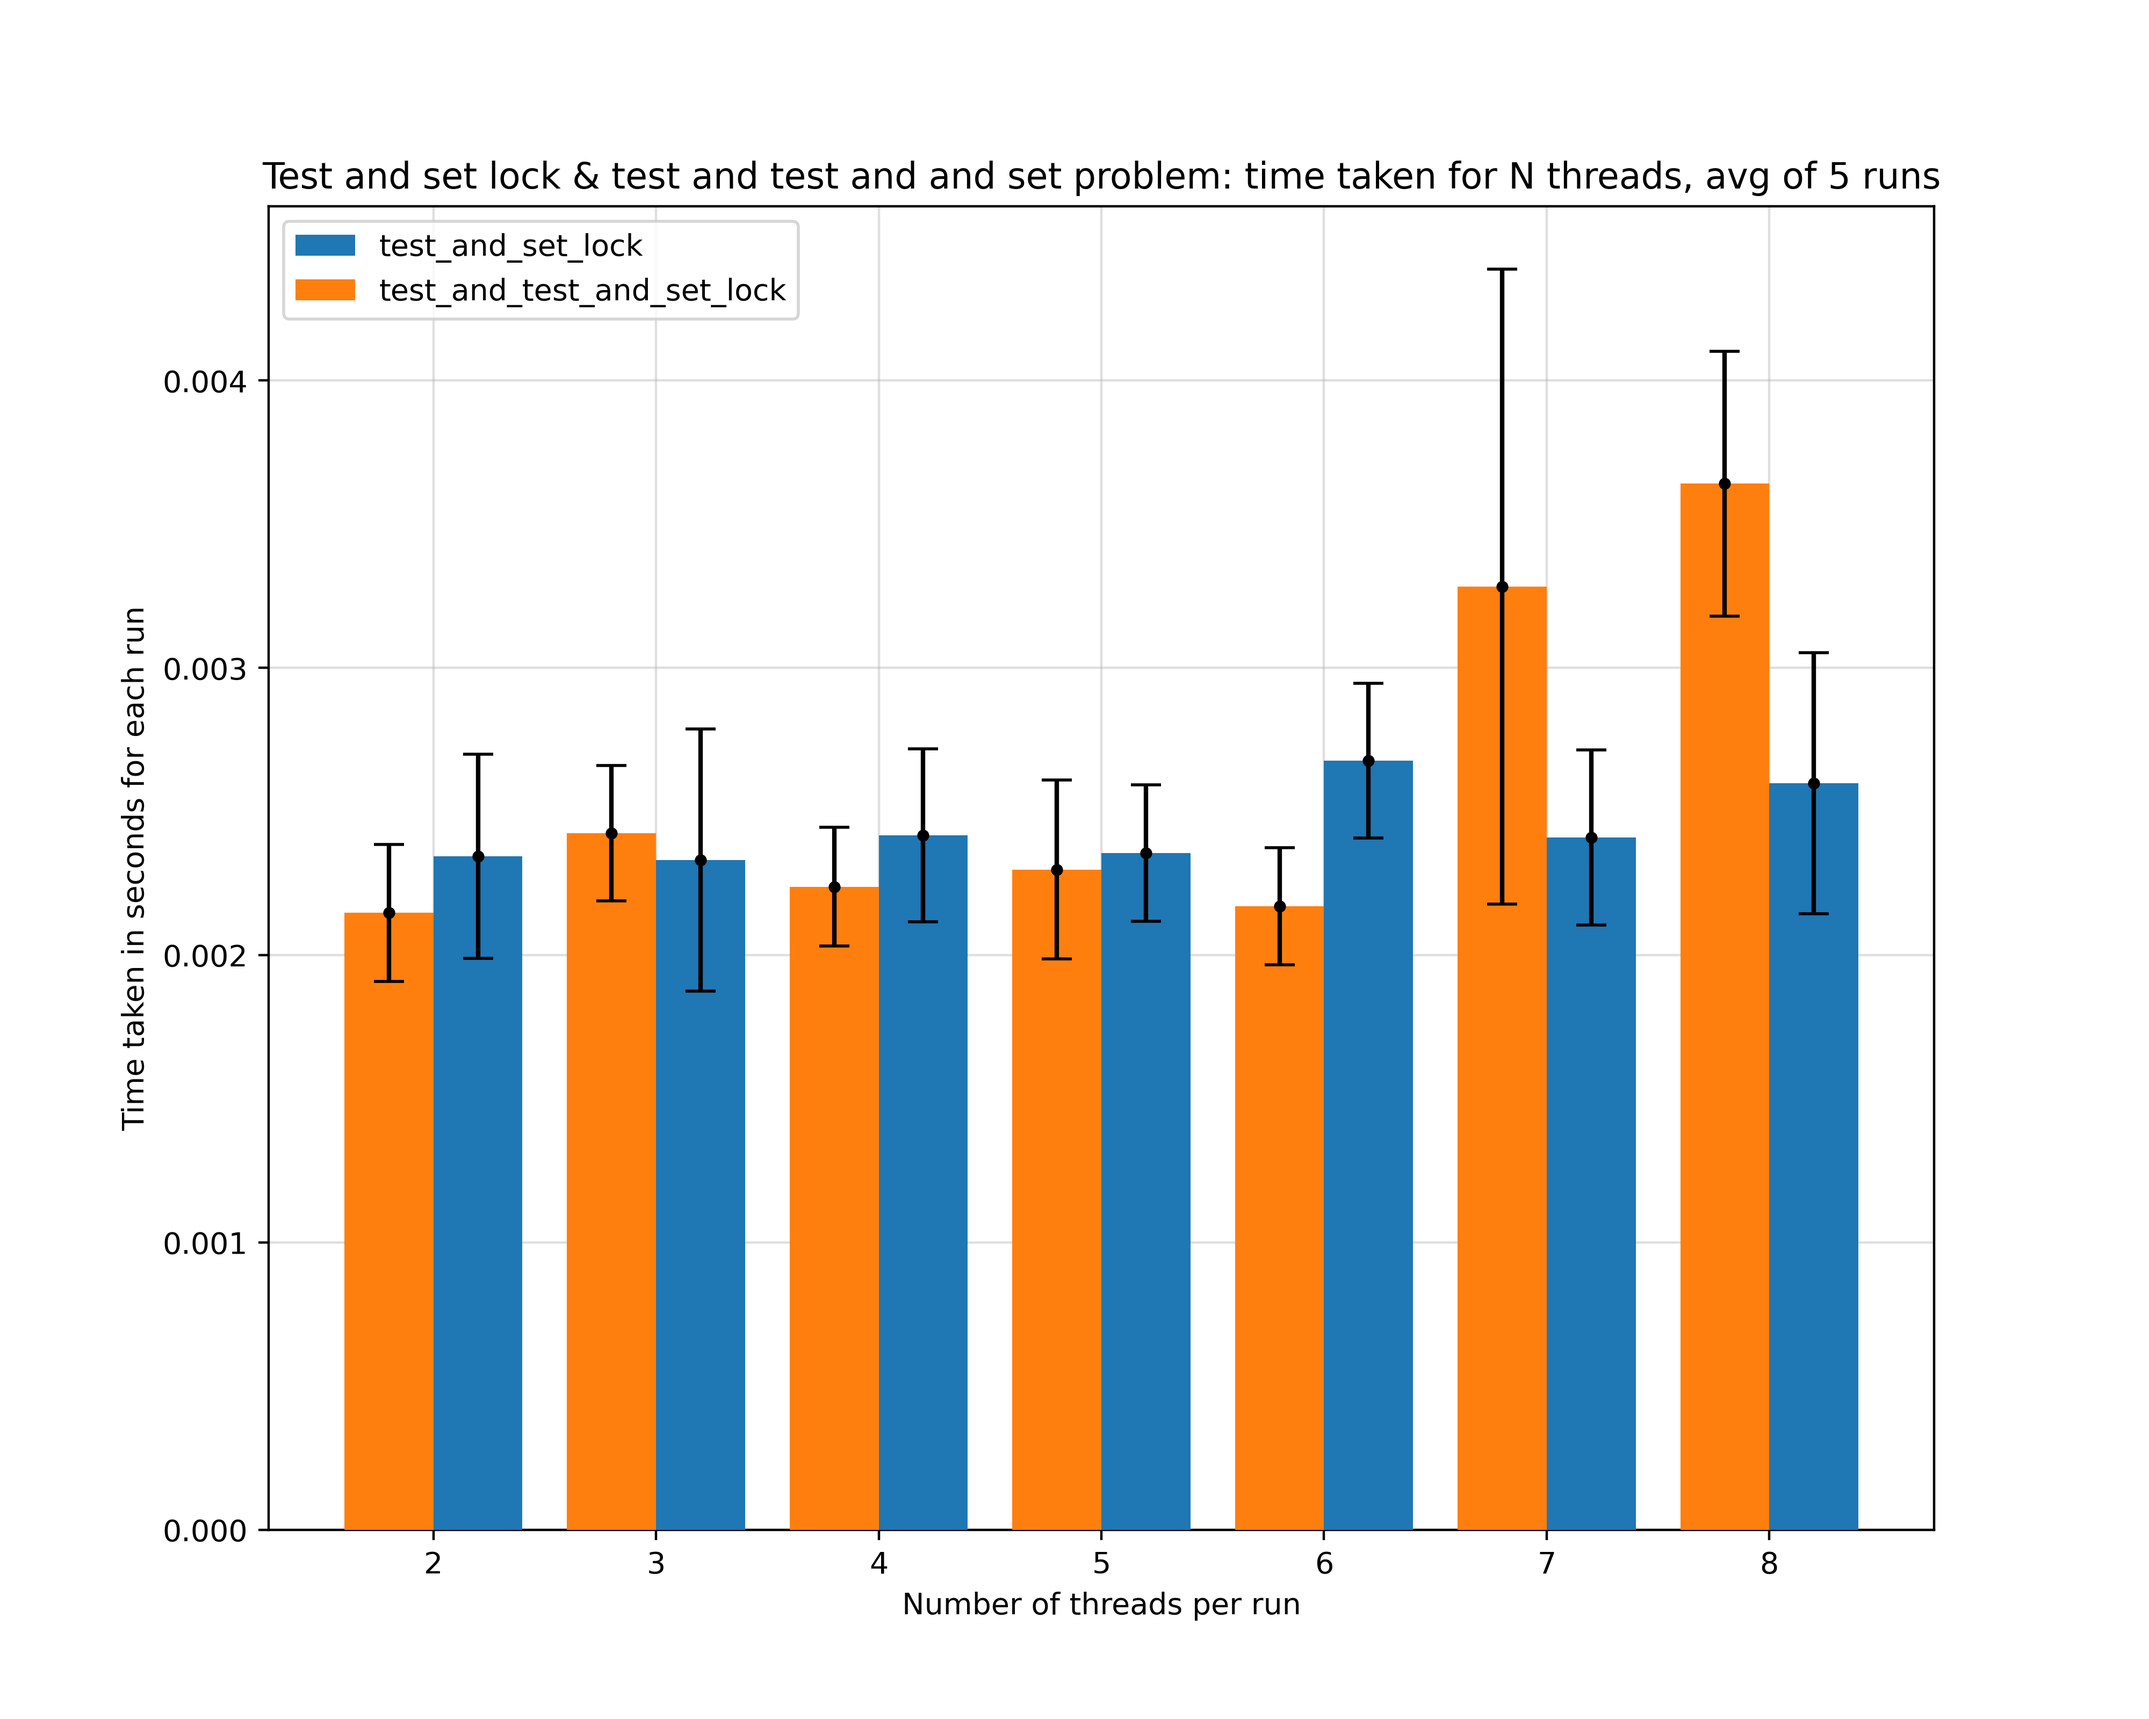
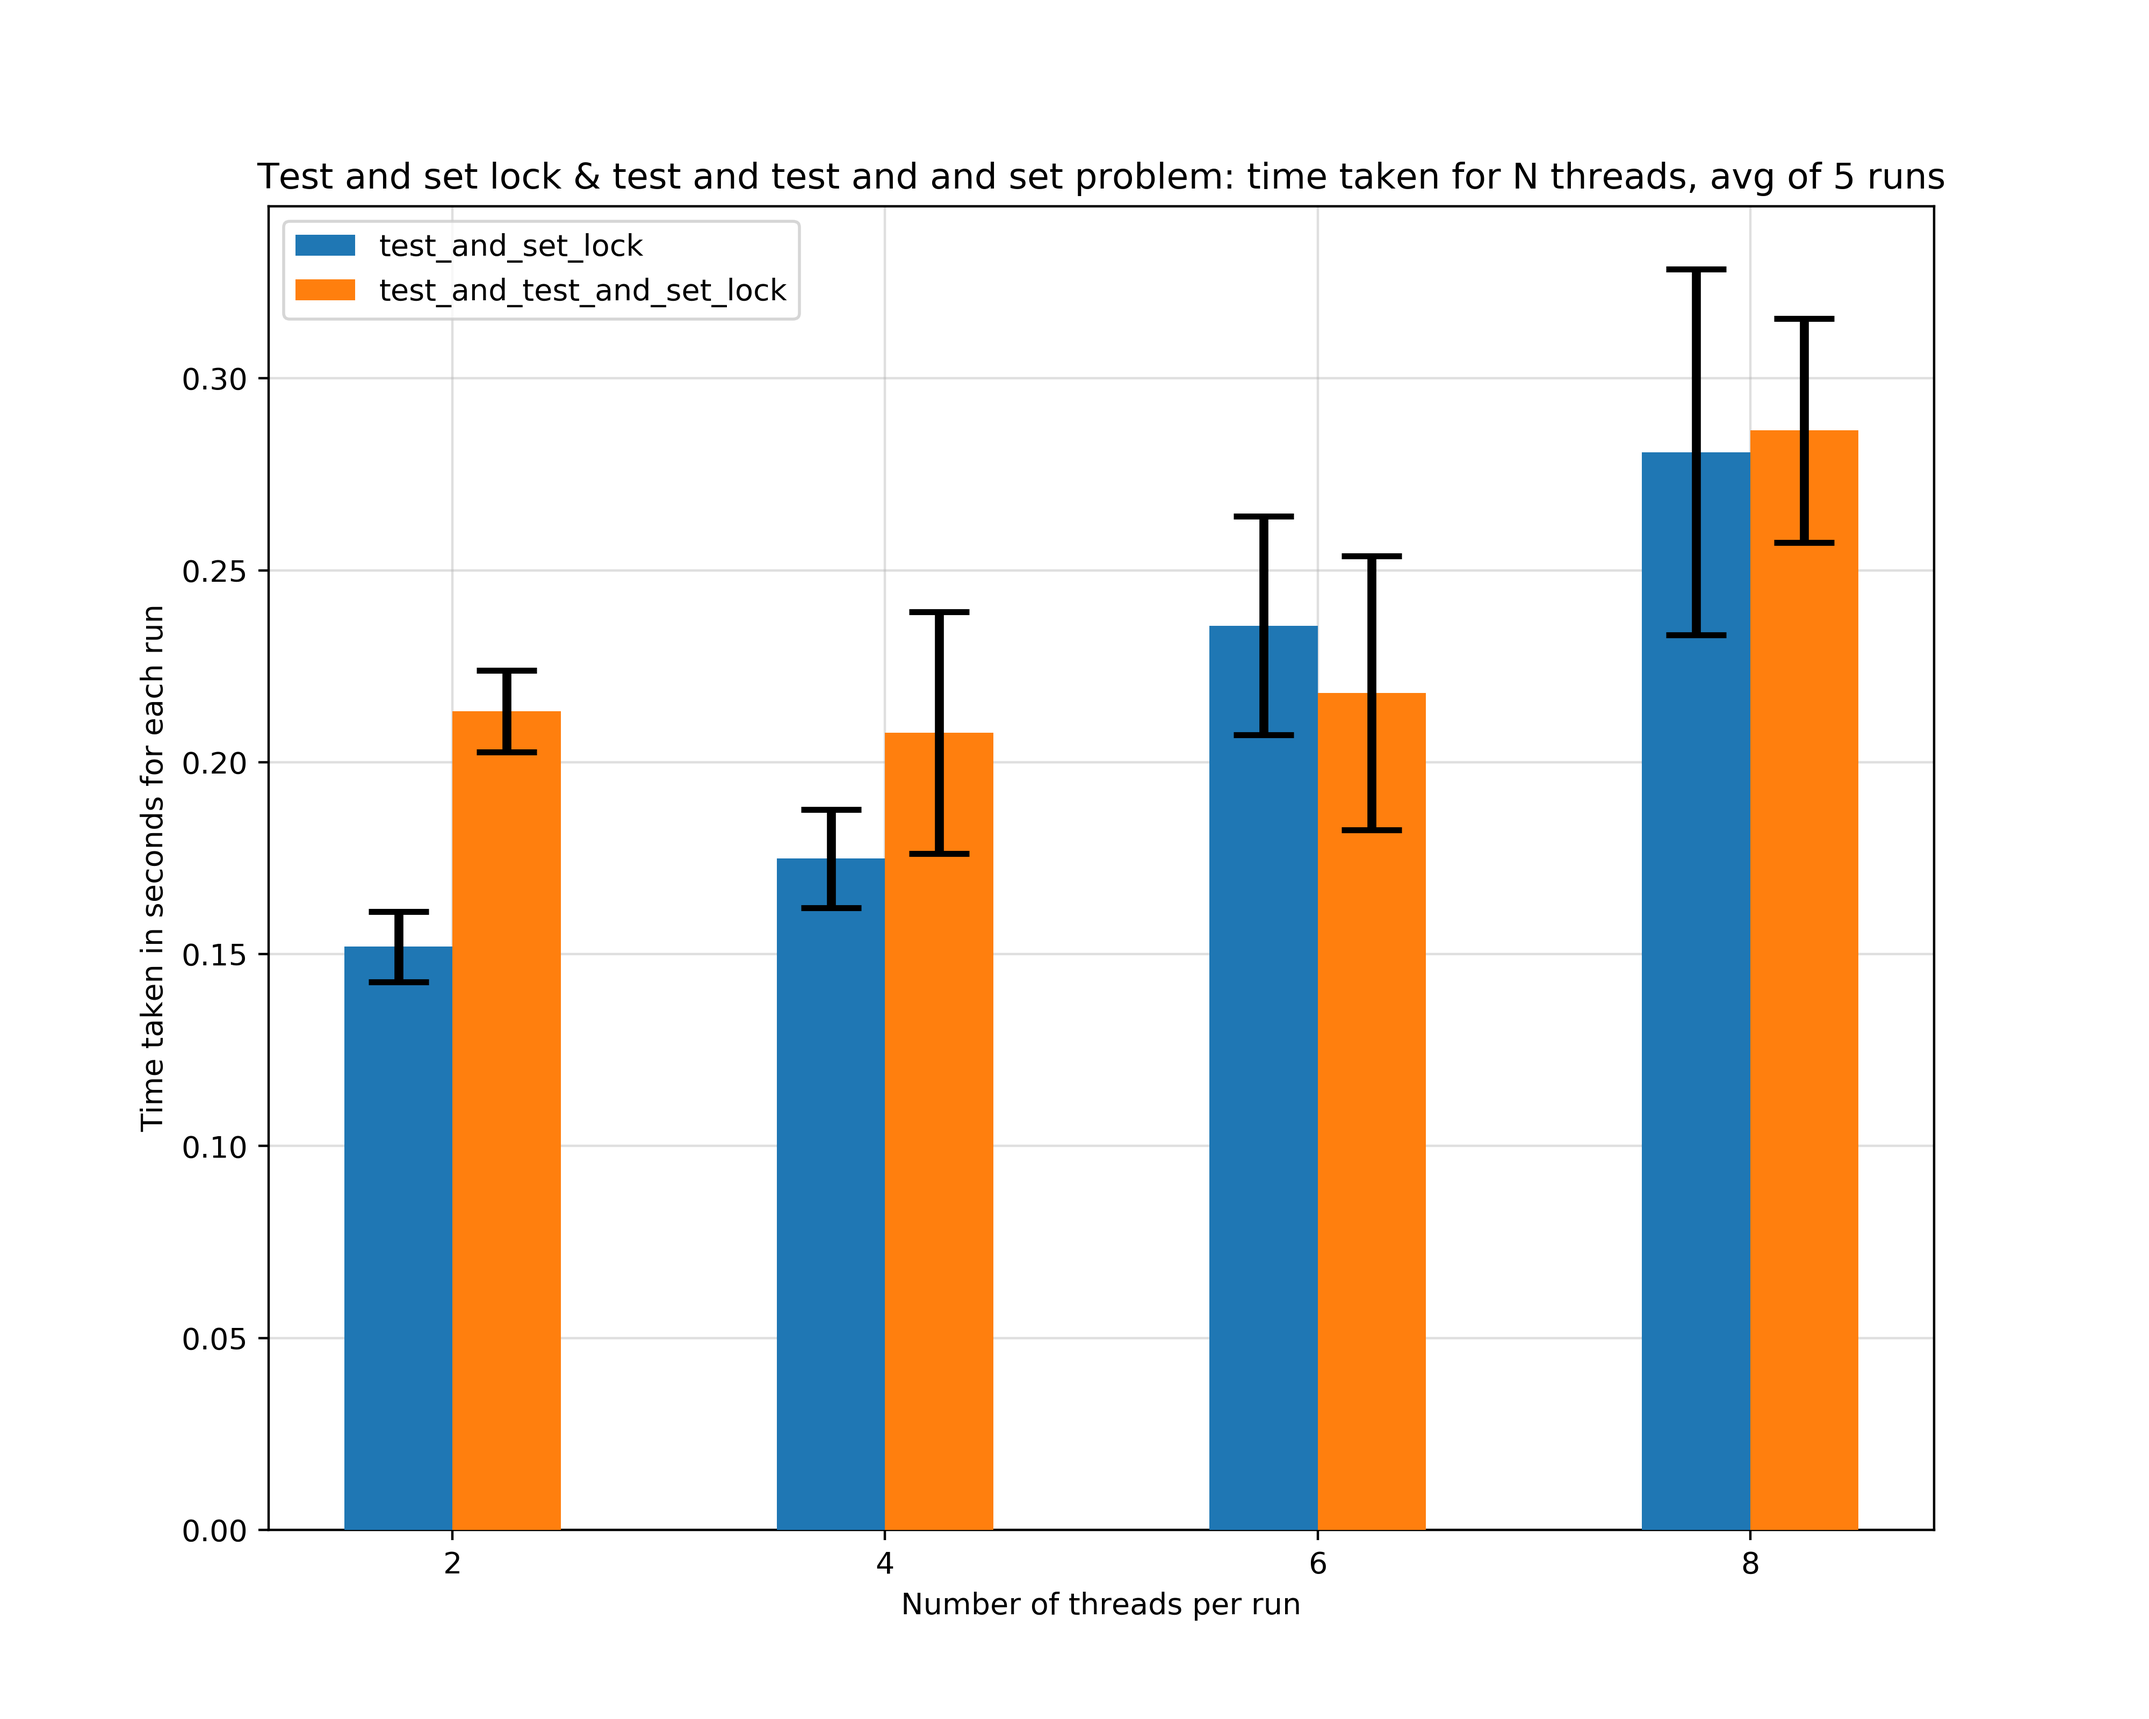
TP vdd

diff --git a/analysis.py b/analysis.py
@@ -10,40 +10,39 @@ import numpy as np
 
 class CurrentProblem(Enum):
     PHILOSOPHERS = "philosophers"
-    PHILOSOPHERS_OLD = "old_philosophers"
+    PHILOSOPHERS_pthread = "pthread_philosophers"
     PRODUCER_CONSUMER = "producer_consumer"
-    PRODUCER_CONSUMER_OLD = "old_producer_consumer"
+    PRODUCER_CONSUMER_pthread = "pthread_producer_consumer"
     READER_WRITER = "reader_writer"
-    READER_WRITER_OLD = "old_reader_writer"
+    READER_WRITER_pthread = "pthread_reader_writer"
     TEST_AND_SET_LOCK = "test_and_set_lock"
     TEST_AND_TEST_AND_SET_LOCK = "test_and_test_and_set_lock"
 
 
-def plot_file(file, current_problems: (str, str)):
-    new_problem, old_problem = current_problems
-
-    reader = csv.reader(file, delimiter=",")
+def plot_file(new_problem, pthread_problem):
 
     threads = []
 
     y = []
     y_err = []
 
-    old_problem_y = []
-    old_problem_y_err = []
+    pthread_problem_y = []
+    pthread_problem_y_err = []
 
-    for row in reader:
-        threads.append(int(row[0]))
-        float_row = []
-        for i in row[1:]:
-            time_list = i.split(";")
-            duration = float(time_list[0]) - float(time_list[1])
-            float_row.append(duration)
-        stdev = statistics.stdev(float_row)
-        y_err.append(stdev)
-        y.append(statistics.mean(float_row))
+    with open(f"./data/{new_problem}.csv") as file:
+        reader = csv.reader(file, delimiter=",")
+        for row in reader:
+            threads.append(int(row[0]))
+            float_row = []
+            for i in row[1:]:
+                time_list = i.split(";")
+                duration = float(time_list[0]) - float(time_list[1])
+                float_row.append(duration)
+            stdev = statistics.stdev(float_row)
+            y_err.append(stdev)
+            y.append(statistics.mean(float_row))
 
-    with open(f"./data/{old_problem}.csv") as f2:
+    with open(f"./data/{pthread_problem}.csv") as f2:
         reader2 = csv.reader(f2, delimiter=",")
         for row2 in reader2:
             float_row2 = []
@@ -53,24 +52,34 @@ def plot_file(file, current_problems: (str, str)):
                 float_row2.append(duration)
 
             stdev = statistics.stdev(float_row2)
-            old_problem_y_err.append(stdev)
-            old_problem_y.append(statistics.mean(float_row2))
+            pthread_problem_y_err.append(stdev)
+            pthread_problem_y.append(statistics.mean(float_row2))
 
     width = 10
     height = 8
 
-    X_axis = np.arange(threads[0], threads[-1]+1, 1) + 0.2
+    bar_width = 0.25
+
+    X_axis = np.array([i for i in range(len(threads))])
+    X_labels = [str(i) for i in threads if i % 2 == 0]
+
     plt.figure(figsize=(width, height))
 
-    plt.bar(X_axis, y, 0.4, zorder=3, label=new_problem)
-    plt.errorbar(X_axis, y, y_err, zorder=4, fmt=".", color="k", errorevery=1, capsize=5)
+    plt.bar(X_axis - bar_width / 2, y, bar_width, zorder=3, label=new_problem)
+    plt.errorbar(X_axis - bar_width / 2, y, y_err, zorder=4, fmt="none", color="k", errorevery=1, capsize=10, lw=3,
+                 capthick=2)
 
-    plt.bar(X_axis - 0.4, old_problem_y, 0.4, zorder=3, label=old_problem.replace("old_", "") + " with pthread sync" if new_problem != CurrentProblem.TEST_AND_SET_LOCK.value else old_problem.replace("old_", ""))
-    plt.errorbar(X_axis - 0.4, old_problem_y, old_problem_y_err, zorder=4, fmt=".", color="k", errorevery=1, capsize=5)
+    plt.bar(X_axis + bar_width / 2, pthread_problem_y, bar_width, zorder=3, label=pthread_problem.replace("pthread_",
+                                                                                                          "") + " with pthread sync" if new_problem != CurrentProblem.TEST_AND_SET_LOCK.value else pthread_problem.replace(
+        "pthread_", ""))
+    plt.errorbar(X_axis + bar_width / 2, pthread_problem_y, pthread_problem_y_err, zorder=4, fmt="none", color="k",
+                 errorevery=1, capsize=10, capthick=2, lw=3)
 
     name = new_problem.replace("_", " ")
     if new_problem == CurrentProblem.TEST_AND_SET_LOCK.value:
         name = new_problem.replace("_", " ") + " & test and test and and set"
+
+    plt.xticks(X_axis, X_labels)
 
     plt.title(f"{name.capitalize()} problem: time taken for N threads, avg of 5 runs")
 
@@ -83,10 +92,12 @@ def plot_file(file, current_problems: (str, str)):
 
 
 def main():
-    for i in [(CurrentProblem.PHILOSOPHERS.value, CurrentProblem.PHILOSOPHERS_OLD.value), (CurrentProblem.PRODUCER_CONSUMER.value, CurrentProblem.PRODUCER_CONSUMER_OLD.value),
-              (CurrentProblem.READER_WRITER.value, CurrentProblem.READER_WRITER_OLD.value), (CurrentProblem.TEST_AND_SET_LOCK.value, CurrentProblem.TEST_AND_TEST_AND_SET_LOCK.value)]:
-        with open(f"./data/{i[0]}.csv") as file:
-            plot_file(file, i)
+    for new_value, pthread_value in [(CurrentProblem.PHILOSOPHERS.value, CurrentProblem.PHILOSOPHERS_pthread.value), (
+            CurrentProblem.PRODUCER_CONSUMER.value, CurrentProblem.PRODUCER_CONSUMER_pthread.value),
+                                     (CurrentProblem.READER_WRITER.value, CurrentProblem.READER_WRITER_pthread.value), (
+                                             CurrentProblem.TEST_AND_SET_LOCK.value,
+                                             CurrentProblem.TEST_AND_TEST_AND_SET_LOCK.value)]:
+        plot_file(new_value, pthread_value)
 
 
 if __name__ == "__main__":

diff --git a/src/test_and_set_lock.c b/src/test_and_set_lock.c
@@ -32,7 +32,13 @@ void mutex_destroy(mutex_t *mutex) {
 int test_and_set(mutex_t *mutex) {
     int value = 1;
     // the "lock" is just there to make sure that it will indeed be an atomic operation
-    asm volatile ("lock; xchgl %0, %1" : "+m"(*mutex->lock), "+a"(value)); // "a" means value goes into eax first, "m" means that lock is read from memory
+    asm volatile (
+            "lock; xchgl %0, %1"
+            : "+m"(*mutex->lock), "+a"(value)
+            :
+            : "memory"
+            );
+    // "a" means value goes into eax first, "m" means that lock is read from memory
     // the "+" denotes a read and write constraint, found in: https://gcc.gnu.org/onlinedocs/gcc/Modifiers.html#Modifiers
     return value;
 }
@@ -45,25 +51,28 @@ void lock(mutex_t *mutex) {
 
     // spin until test_and_set returns 1, meaning we got the lock
     while (test_and_set(mutex) != 0) {
-        //asm("nop");
+//        asm volatile ("nop");
     }
 
 }
 
 void unlock(mutex_t *mutex) {
     int value = 0;
-    asm volatile ("lock; xchgl %0, %1" : "+a"(value), "+m"(*mutex->lock)); // sets the lock variable back to 0
+    asm volatile ("lock; xchgl %0, %1" : "+a"(value), "+m"(*mutex->lock): : "memory"); // sets the lock variable back to 0
 }
 
 void lock_test_and_test_and_set(mutex_t *mutex) {
     while (test_and_set(mutex) != 0) {
-        while (*mutex->lock != 0) {}
+        while (*mutex->lock != 0) {
+            asm volatile ("nop");
+        }
     }
 }
 
 
 // test program: ----------------------
 
+volatile int lock_dump = 0;
 
 void test_and_set_lock(bool verbose, int n_threads, int n_tatas_threads, bool is_simple_tas) {
     mutex_t *mutex = mutex_init();
@@ -139,7 +148,9 @@ void *thread_func(void *arg) {
         }
 
         // simulate busy work
-        for (int _ = 0; _ < BUSY_WORK_CYCLES; _++) {}
+        for (int _ = 0; _ < BUSY_WORK_CYCLES; _++) {
+            lock_dump++;
+        }
 
         unlock(args->mutex);
     }

diff --git a/src/readers_writers.c b/src/readers_writers.c
@@ -21,6 +21,8 @@ semaphore_t rsem, wsem;
 semaphore_t db;
 mutex_t *mutex;
 
+volatile int reader_writer_dump = 0;
+
 volatile int readcount, writecount = 0; // nombre de readers et de writers actif
 
 void reader_writer(int n_reader, int n_writer, bool verbose, bool using_pthread_sync) {
@@ -204,7 +206,6 @@ void *reader(void *args) {
                     sem_wait(&pthread_wsem);
                 } else {
                     semaphore_wait(&wsem);
-
                 }
             }
 
@@ -225,7 +226,10 @@ void *reader(void *args) {
         }
 
         // simulate busy work - read database
-        for (int _ = 0; _ < BUSY_WORK_CYCLES; _++) {}
+
+        for (int _ = 0; _ < BUSY_WORK_CYCLES; _++) {
+            reader_writer_dump++;
+        }
 
         if (arguments->using_pthread_sync) {
             pthread_mutex_lock(&pthread_mutex_readcount);
@@ -303,7 +307,9 @@ void *writer(void *args) {
                 printf("Writer #%d is writing data\n", arguments->id);
             }
             // simulate busy work - write data
-            for (int _ = 0; _ < BUSY_WORK_CYCLES; _++) {}
+            for (int _ = 0; _ < BUSY_WORK_CYCLES; _++) {
+                reader_writer_dump++;
+            }
 
         if (arguments->using_pthread_sync) {
             sem_post(&pthread_wsem);

diff --git a/src/producers_consumers.c b/src/producers_consumers.c
@@ -21,6 +21,8 @@ semaphore_t full;
 volatile int produced_elements = 0;
 volatile int consumed_elements = 0;
 
+volatile int prod_cons_dump = 0;
+
 void producer_consumer(int n_prods, int n_cons, bool verbose, bool using_pthread_sync) {
     if (using_pthread_sync && verbose) {
         printf("Running the producer consumer problem using pthread sync\n");
@@ -212,7 +214,9 @@ void *producer(void *args) {
         }
 
         // simulate busy work
-        for (int i = 0; i < BUSY_WORK_CYCLES; i++) {}
+        for (int _ = 0; _ < BUSY_WORK_CYCLES; _++) {
+            prod_cons_dump++;
+        }
 
     }
     pthread_exit(NULL);
@@ -283,7 +287,9 @@ void *consumer(void *args) {
         }
 
         // simulate busy work
-        for (int i = 0; i < BUSY_WORK_CYCLES; i++) {}
+        for (int _ = 0; _ < BUSY_WORK_CYCLES; _++) {
+            prod_cons_dump++;
+        }
 
     }
     pthread_exit(NULL);

diff --git a/src/my_semaphore.c b/src/my_semaphore.c
@@ -28,15 +28,17 @@ void semaphore_wait(semaphore_t *semaphore) {
     lock_test_and_test_and_set(semaphore->mutex);
 
     // the calling thread is blocked while counter is 0
-    while (semaphore->counter < 1) {}
+    while (semaphore->counter < 1) {
+//        asm volatile ("nop");
+    }
 
-//    (semaphore->counter)--;
-    uint res;
-    asm volatile ("lock; xadd %0, %1"
-            : "=r"(res), "+m"(semaphore->counter)
-            : "0"(-1)
-            : "memory"
-            );
+    (semaphore->counter)--;
+//    uint res;
+//    asm volatile ("lock; xadd %0, %1"
+//            : "=r"(res), "+m"(semaphore->counter)
+//            : "0"(-1)
+//            : "memory"
+//            );
 
     unlock(semaphore->mutex);
 }
